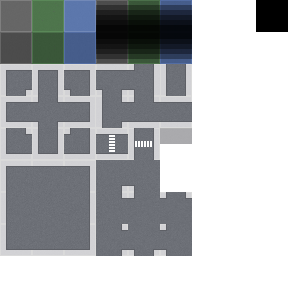
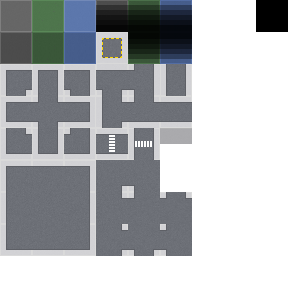
added tile based spawn set

Changed region(s): [[0.3125, 0.0938, 0.4688, 0.25]]

diff --git a/dist/js/index.js b/dist/js/index.js
@@ -1,1 +1,1 @@
-!function(e){var t={};function i(a){if(t[a])return t[a].exports;var o=t[a]={i:a,l:!1,exports:{}};return e[a].call(o.exports,o,o.exports,i),o.l=!0,o.exports}i.m=e,i.c=t,i.d=function(e,t,a){i.o(e,t)||Object.defineProperty(e,t,{configurable:!1,enumerable:!0,get:a})},i.r=function(e){Object.defineProperty(e,"__esModule",{value:!0})},i.n=function(e){var t=e&&e.__esModule?function(){return e.default}:function(){return e};return i.d(t,"a",t),t},i.o=function(e,t){return Object.prototype.hasOwnProperty.call(e,t)},i.p="",i(i.s=0)}([function(e,t,i){"use strict";let a,o,s;i.r(t);let n=0;function r(){a=document.createElement("div"),o=document.createElement("div"),s=document.createElement("div"),a.classList.add("preloader"),s.classList.add("progress"),o.classList.add("text"),a.appendChild(s),a.appendChild(o),document.body.appendChild(a)}function l(e){let t=0;n=0,a||r(),a.classList.remove("done");const i={};e.load.on("fileprogress",function(l,c){t=e.load.totalToLoad,function(e,t,i,l){let c;a||r();let p=0;i[e.key]=t;for(const e in i)i.hasOwnProperty(e)&&(c="Downloading ("+(n+1)+"/"+l+") "+e+":"+Math.round(100*i[e])+"%",p+=i[e],s.style.width=p/l*600+"px");o.innerText=c,p/l==1&&(o.innerText="Loading Game..."),1===t&&n++}(l,c,i,t)}.bind(this)),e.load.maxParallelDownloads=1,e.load.on("complete",function(){a.classList.add("done")})}let c,p={settings:{resolution:JSON.parse(localStorage.getItem("resolution"))||{height:600,width:800}},mainCamera:void 0,alignment:{centered:{},topLeft:{}},controls:{up:0,down:0,left:0,right:0},multiplayer:{},player:{}},d={song_witchesGetBitches:{name:"Strike Witches Get Bitches",author:"Azureflux",src:"assets/music/Azureflux_-_02_-_Strike_Witches_Get_Bitches.ogg"},song_bitBossa:{name:"Bit Bossa",author:"Azureflux",src:"assets/music/Azureflux_-_07_-_Bit_Bossa.ogg"},song_electrodoodle:{name:"Electricdoodle",author:"Kevin MacLeod",src:"assets/music/Electrodoodle.ogg"},song_chiphInstrumental:{name:"Chipho Instrumental",author:"RoccoW",src:"assets/music/RoccoW_-_Chipho_instrumental.ogg"},song_nontindeVendorTheme:{name:"Nontinde Vendor Theme",author:"RoccoW",src:"assets/music/RoccoW_-_Nontinde_Vendor_Theme.ogg"},song_XinyueTheme:{name:"Xinyue Theme 1",author:"The J Arhur Keenes Band",src:"assets/music/The_J_Arthur_Keenes_Band_-_01_-_Xinyue_Theme_1.ogg"}};const m={KeyW:"up",KeyA:"left",KeyS:"down",KeyD:"right"};function u(e){if(m[e])return m[e]}let h,y,g=!1;function f(e,t,i){let a=!1;i&&e.setPosition(i.x,i.y),t&&e&&p.player&&(t.up?(e.setVelocityY(-100),a=!0):t.down?(e.setVelocityY(100),a=!0):e.setVelocityY(0),t.left?(e.setVelocityX(-100),a=!0):t.right?(e.setVelocityX(100),a=!0):e.setVelocityX(0),a?(e.anims.play("hop",!0),e.walking=!0):!0===e.walking&&(e.anims.play("idle",!0),e.walking=!1,i&&e.setPosition(i.x,i.y)),e.position&&(e.depth=e.position.y),p.player.controls=t,p.player.position=e.position)}function w(e,t,i){const a=new _(e,t,i);let o=p.controls;return f(a.sprite,o,a.sprite.position),a.sprite.anims.play("spawn",!0),a}class _{constructor(e,t={spawn:{x:100,y:100}},i="#ffffff"){this.id=p.player.id,this.color=i,this.sprite=e.physics.add.sprite(16,16,"player"),this.sprite.setSize(10,10),this.sprite.setOffset(11,14),this.sprite.setPosition(t.spawn.x,t.spawn.y),this.sprite.setCollideWorldBounds(!0),this.sprite.setBounce(0),t.layers.forEach(t=>{e.physics.add.collider(this.sprite,t.tilemapLayer)}),this.position=origin,this.controls={up:0,down:0,left:0,right:0}}}function x(e){for(const t in p.multiplayer)if(p.multiplayer.hasOwnProperty(t)){const i=p.multiplayer[t].sprite,a=p.multiplayer[t].controls,o=e||{x:i.x,y:i.y};o&&i.setPosition(o.x,o.y),i.setVelocity(0,0);let s=!1;a&&i&&(a.up?(i.setVelocityY(-100),s=!0):a.down?(i.setVelocityY(100),s=!0):i.setVelocityY(0),a.left?(i.setVelocityX(-100),s=!0):a.right?(i.setVelocityX(100),s=!0):i.setVelocityX(0),s?(i.anims.play("hop",!0),i.walking=!0):!0===i.walking&&(i.anims.play("idle",!0),i.walking=!1),i.position&&(i.depth=i.position.y))}}function C(){if(h){const e=JSON.parse(JSON.stringify(p.player));delete e.sprite,h.emit("update",e)}}const T={};function v(e,t,i){if("load_map"===i)e.load.tilemapTiledJSON(t.name,t.src);else for(const a in t)t.hasOwnProperty(a)&&("load_image"===i?e.load.image(a,t[a]):"load_audio"===i&&e.load.audio(a,t[a]))}let P,S,k,V=!1;const W={map:{name:"Map_PixilTown",src:"assets/tilemap/PixilTown.json",layers:[{name:"Ground",key:"Tiles_PixilTown"},{name:"Bridge",key:"Tiles_PixilTown"}]},images:{Tiles_PixilTown:"assets/tiles/PixilTown.png"},audio:{song_XinyueTheme:d.song_XinyueTheme.src}};let B,X;let b=JSON.parse(localStorage.getItem("resolution"))||{height:600,width:800};localStorage.setItem("resolution",JSON.stringify(b));const O={type:Phaser.CANVAS,width:window.innerWidth,height:window.innerHeight,physics:{default:"arcade",arcade:{gravity:{y:0},debug:!1}},scene:[class extends Phaser.Scene{constructor(){super({key:"MainMenu"})}preload(){var e;l(this),(e=this).load.image("player","assets/sprites/player.png"),e.load.spritesheet("player_idle","assets/sprites/player_idle.png",{frameWidth:32,frameHeight:32}),e.load.spritesheet("player_hop","assets/sprites/player_hop.png",{frameWidth:32,frameHeight:32}),e.load.spritesheet("player_spawn","assets/sprites/player_spawn.png",{frameWidth:32,frameHeight:32}),e.load.on("complete",()=>{e.anims.create({key:"idle",frames:e.anims.generateFrameNumbers("player_idle",{start:0,end:2}),frameRate:2,repeat:-1}),e.anims.create({key:"hop",frames:e.anims.generateFrameNumbers("player_hop",{start:0,end:6}),frameRate:12,repeat:-1}),e.anims.create({key:"spawn",frames:e.anims.generateFrameNumbers("player_spawn",{start:0,end:14}),frameRate:12,repeat:0,onComplete:function(e){console.log("player spawned")}}),e.anims.create({key:"delete",frames:e.anims.generateFrameNumbers("player_spawn",{frames:[14,13,12,11,10,9,8,7,6,5,4,3,2,1,0]}),frameRate:12,repeat:0,onComplete:function(e){e.destroy()}});let t=p.controls;g||(document.addEventListener("keydown",e=>{const i=u(e.code);t[i]||void 0===i||(t[i]=1,C())}),document.addEventListener("keyup",e=>{const i=u(e.code);t[i]&&(t[i]=0,C())}),g=!0)})}create(){p.activeScene=this,this.sound.pauseOnBlur=!1,this.input.once("pointerdown",function(e){this.scene.start("PixilTown")},this),new Promise(function(e,t){(h=io("https://brandonvdongen.nl:8000")).on("connect",()=>{console.log("connecting..."),p.online?(console.log("Connection lost"),h.close()):h.emit("identify",{version:p.version,game_name:p.game_name})}),h.on("server_missmatch",()=>{console.error("your version doesn't match with the server!"),h.close(),t()}),h.on("identified",t=>{console.log("identified, login succesfull",t),t.online=!0,e(t)}),h.on("change_map",e=>{p.activeScene.scene.start(e.map)}),h.on("joined",e=>{console.log("joined",e),p.multiplayer[e.id]=w(p.activeScene,p.sceneSpawn,"#ffffff"),p.multiplayer[e.id].sprite.anims.play("spawn",!0)}),h.on("left",e=>{p.multiplayer[e.id]&&(p.multiplayer[e.id].sprite.anims.play("delete",!0),delete p.multiplayer[e.id]),console.log("left",e)}),h.on("update",e=>{p.multiplayer[e.id]||(p.multiplayer[e.id]=w(p.activeScene,e.position,"#ffffff")),e.sprite=p.multiplayer[e.id].sprite,p.multiplayer[e.id]=e,f(e.sprite,e.controls,e.position)})}).then(e=>{p.player.id=e.id,this.scene.start(e.map)})}update(){}},class extends Phaser.Scene{constructor(){super({key:"PixilTown"})}preload(){var e,t;l(this),e=this,t=W,console.log("loading map"),t.map&&v(e,t.map,"load_map"),t.images&&v(e,t.images,"load_image"),t.audio&&v(e,t.audio,"load_audio")}create(){var e,t;p.activeScene=this,e=this,t=W,console.log("setting up camera"),p.mainCamera=e.cameras.main,p.mainCamera.setViewport(0,0,window.innerWidth,window.innerHeight),p.mainCamera.setZoom(3),console.log("creating map"),y=e.make.tilemap({key:t.map.name}),t.map.layers.forEach((e,t)=>{const i=y.addTilesetImage(e.key);T[e.name]=y.createStaticLayer(e.name,i,0,0),T[e.name].setCollisionByProperty({collides:!0}),T[e.name].depth=0===t?0:1e3}),y.spawn=y.tileToWorldXY(2,5,{},p.mainCamera,T.Ground),(k=y).spawn.x-=k.tileWidth/2,k.spawn.y-=k.tileHeight/2,p.sceneSpawn=k,p.player=w(this,k,"#ffffff"),p.cameraTarget=p.player.sprite,k.setLayer("Ground"),console.log(k.layer)}update(e,t){var i,a;!function(e,t){V||((P=e.add.graphics()).lineStyle(3,16777215,1),P.strokeRect(0,0,t.tileWidth,t.tileHeight),V=!0);const i=e.input.activePointer.positionToCamera(e.cameras.main),a=t.worldToTileX(i.x),o=t.worldToTileY(i.y);if(P.x=t.tileToWorldX(a),P.y=t.tileToWorldY(o),e.input.manager.activePointer.isDown){const e=t.getTileAt(a,o);e&&console.log("Properties: ",e.properties)}}(this,k),i=p.cameraTarget,a=.9,i&&(void 0===a&&(a=0),p.mainCamera.scrollX=a*p.mainCamera.scrollX+(1-a)*(i.x-.5*p.mainCamera.width),p.mainCamera.scrollY=a*p.mainCamera.scrollY+(1-a)*(i.y-.5*p.mainCamera.height)),S=p.player.sprite;let o=p.controls;S.position={x:S.x,y:S.y},f(S,o,S.position),x()}},class extends Phaser.Scene{constructor(){super({key:"Voxalia"})}preload(){console.log("loading map"),l(this),this.load.audio("song_bitBossa",d.song_bitBossa.src),this.load.image("Voxalia","assets/tiles/Voxalia.png"),this.load.tilemapTiledJSON("Map_Voxalia","assets/tilemap/Voxalia.json")}create(){p.activeScene=this;const e=(X=this.make.tilemap({key:"Map_Voxalia"})).addTilesetImage("Voxalia"),t=X.createStaticLayer("Ground",e,0,0),i=X.createStaticLayer("Bridge",e,0,0);var a,o;t.setCollisionBetween(9,11),t.setCollision(-1),t.setCollisionFromCollisionGroup(),i.setCollisionFromCollisionGroup(),p.mainCamera=this.cameras.main,p.mainCamera.setViewport(0,0,window.innerWidth,window.innerHeight),p.mainCamera.setZoom(3),this.sound.pauseOnBlur=!1,a=this,o="song_bitBossa",c&&c.destroy(),(c=a.sound.add(o)).pauseOnBlur=!1,c.volume=.05,c.loop=!0,c.play(),X.spawn=X.tileToWorldXY(2,5,{},p.mainCamera,t),X.spawn.x-=X.tileWidth/2,X.spawn.y-=X.tileHeight/2,p.sceneSpawn=X,p.player=w(this,X,"#ffffff"),console.log(t),p.cameraTarget=p.player.sprite,X.setLayer(0),function(e,t){i&&(i.clear(),i.destroy());const i=e.add.graphics(),a=new Phaser.Display.Color(105,210,231,200),o=new Phaser.Display.Color(243,134,48,200),s=new Phaser.Display.Color(40,39,37,255);i.clear(),t.renderDebug(i,{tileColor:a,collidingTileColor:o,faceColor:s})}(this,X)}update(e,t){var i,a;i=p.cameraTarget,a=.9,i&&(void 0===a&&(a=0),p.mainCamera.scrollX=a*p.mainCamera.scrollX+(1-a)*(i.x-.5*p.mainCamera.width),p.mainCamera.scrollY=a*p.mainCamera.scrollY+(1-a)*(i.y-.5*p.mainCamera.height)),B=p.player.sprite;let o=p.controls;B.position={x:B.x,y:B.y},f(B,o,B.position),x()}}],pixelArt:!0},L=new Phaser.Game(O);window.onresize=function(){L.resize(window.innerWidth,window.innerHeight,1),p.mainCamera&&p.mainCamera.setViewport(0,0,window.innerWidth,window.innerHeight)},p.version=2,p.game_name="pixel_park"}]);
+!function(e){var t={};function i(a){if(t[a])return t[a].exports;var o=t[a]={i:a,l:!1,exports:{}};return e[a].call(o.exports,o,o.exports,i),o.l=!0,o.exports}i.m=e,i.c=t,i.d=function(e,t,a){i.o(e,t)||Object.defineProperty(e,t,{configurable:!1,enumerable:!0,get:a})},i.r=function(e){Object.defineProperty(e,"__esModule",{value:!0})},i.n=function(e){var t=e&&e.__esModule?function(){return e.default}:function(){return e};return i.d(t,"a",t),t},i.o=function(e,t){return Object.prototype.hasOwnProperty.call(e,t)},i.p="",i(i.s=0)}([function(e,t,i){"use strict";let a,o,s;i.r(t);let n=0;function r(){a=document.createElement("div"),o=document.createElement("div"),s=document.createElement("div"),a.classList.add("preloader"),s.classList.add("progress"),o.classList.add("text"),a.appendChild(s),a.appendChild(o),document.body.appendChild(a)}function l(e){let t=0;n=0,a||r(),a.classList.remove("done");const i={};e.load.on("fileprogress",function(l,c){t=e.load.totalToLoad,function(e,t,i,l){let c;a||r();let p=0;i[e.key]=t;for(const e in i)i.hasOwnProperty(e)&&(c="Downloading ("+(n+1)+"/"+l+") "+e+":"+Math.round(100*i[e])+"%",p+=i[e],s.style.width=p/l*600+"px");o.innerText=c,p/l==1&&(o.innerText="Loading Game..."),1===t&&n++}(l,c,i,t)}.bind(this)),e.load.maxParallelDownloads=1,e.load.on("complete",function(){a.classList.add("done")})}let c,p={settings:{resolution:JSON.parse(localStorage.getItem("resolution"))||{height:600,width:800}},mainCamera:void 0,alignment:{centered:{},topLeft:{}},controls:{up:0,down:0,left:0,right:0},multiplayer:{},player:{}},d={song_witchesGetBitches:{name:"Strike Witches Get Bitches",author:"Azureflux",src:"assets/music/Azureflux_-_02_-_Strike_Witches_Get_Bitches.ogg"},song_bitBossa:{name:"Bit Bossa",author:"Azureflux",src:"assets/music/Azureflux_-_07_-_Bit_Bossa.ogg"},song_electrodoodle:{name:"Electricdoodle",author:"Kevin MacLeod",src:"assets/music/Electrodoodle.ogg"},song_chiphInstrumental:{name:"Chipho Instrumental",author:"RoccoW",src:"assets/music/RoccoW_-_Chipho_instrumental.ogg"},song_nontindeVendorTheme:{name:"Nontinde Vendor Theme",author:"RoccoW",src:"assets/music/RoccoW_-_Nontinde_Vendor_Theme.ogg"},song_XinyueTheme:{name:"Xinyue Theme 1",author:"The J Arhur Keenes Band",src:"assets/music/The_J_Arthur_Keenes_Band_-_01_-_Xinyue_Theme_1.ogg"}};const m={KeyW:"up",KeyA:"left",KeyS:"down",KeyD:"right"};function u(e){if(m[e])return m[e]}let h,y,g=!1;function f(e,t,i){let a=!1;i&&e.setPosition(i.x,i.y),t&&e&&p.player&&(t.up?(e.setVelocityY(-100),a=!0):t.down?(e.setVelocityY(100),a=!0):e.setVelocityY(0),t.left?(e.setVelocityX(-100),a=!0):t.right?(e.setVelocityX(100),a=!0):e.setVelocityX(0),a?(e.anims.play("hop",!0),e.walking=!0):!0===e.walking&&(e.anims.play("idle",!0),e.walking=!1,i&&e.setPosition(i.x,i.y)),e.position&&(e.depth=e.position.y),p.player.controls=t,p.player.position=e.position)}function w(e,t,i){const a=new _(e,t,i);let o=p.controls;return f(a.sprite,o,a.sprite.position),a.sprite.anims.play("spawn",!0),a}class _{constructor(e,t={spawn:{x:100,y:100}},i="#ffffff"){this.id=p.player.id,this.color=i,this.sprite=e.physics.add.sprite(16,16,"player"),this.sprite.setSize(10,10),this.sprite.setOffset(11,14),this.sprite.setPosition(t.spawn.x,t.spawn.y),this.sprite.setCollideWorldBounds(!0),this.sprite.setBounce(0),t.layers.forEach(t=>{e.physics.add.collider(this.sprite,t.tilemapLayer)}),this.position=origin,this.controls={up:0,down:0,left:0,right:0}}}function x(e){for(const t in p.multiplayer)if(p.multiplayer.hasOwnProperty(t)){const i=p.multiplayer[t].sprite,a=p.multiplayer[t].controls,o=e||{x:i.x,y:i.y};o&&i.setPosition(o.x,o.y),i.setVelocity(0,0);let s=!1;a&&i&&(a.up?(i.setVelocityY(-100),s=!0):a.down?(i.setVelocityY(100),s=!0):i.setVelocityY(0),a.left?(i.setVelocityX(-100),s=!0):a.right?(i.setVelocityX(100),s=!0):i.setVelocityX(0),s?(i.anims.play("hop",!0),i.walking=!0):!0===i.walking&&(i.anims.play("idle",!0),i.walking=!1),i.position&&(i.depth=i.position.y))}}function C(){if(h){const e=JSON.parse(JSON.stringify(p.player));delete e.sprite,h.emit("update",e)}}const T={};function v(e,t,i){if("load_map"===i)e.load.tilemapTiledJSON(t.name,t.src);else for(const a in t)t.hasOwnProperty(a)&&("load_image"===i?e.load.image(a,t[a]):"load_audio"===i&&e.load.audio(a,t[a]))}let P,S,k,V=!1;const W={map:{name:"Map_PixilTown",src:"assets/tilemap/PixilTown.json",layers:[{name:"Ground",key:"Tiles_PixilTown"},{name:"Bridge",key:"Tiles_PixilTown"}]},images:{Tiles_PixilTown:"assets/tiles/PixilTown.png"},audio:{song_XinyueTheme:d.song_XinyueTheme.src}};let B,X;let b=JSON.parse(localStorage.getItem("resolution"))||{height:600,width:800};localStorage.setItem("resolution",JSON.stringify(b));const O={type:Phaser.CANVAS,width:window.innerWidth,height:window.innerHeight,physics:{default:"arcade",arcade:{gravity:{y:0},debug:!1}},scene:[class extends Phaser.Scene{constructor(){super({key:"MainMenu"})}preload(){var e;l(this),(e=this).load.image("player","assets/sprites/player.png"),e.load.spritesheet("player_idle","assets/sprites/player_idle.png",{frameWidth:32,frameHeight:32}),e.load.spritesheet("player_hop","assets/sprites/player_hop.png",{frameWidth:32,frameHeight:32}),e.load.spritesheet("player_spawn","assets/sprites/player_spawn.png",{frameWidth:32,frameHeight:32}),e.load.on("complete",()=>{e.anims.create({key:"idle",frames:e.anims.generateFrameNumbers("player_idle",{start:0,end:2}),frameRate:2,repeat:-1}),e.anims.create({key:"hop",frames:e.anims.generateFrameNumbers("player_hop",{start:0,end:6}),frameRate:12,repeat:-1}),e.anims.create({key:"spawn",frames:e.anims.generateFrameNumbers("player_spawn",{start:0,end:14}),frameRate:12,repeat:0,onComplete:function(e){console.log("player spawned"),console.log(p)}}),e.anims.create({key:"delete",frames:e.anims.generateFrameNumbers("player_spawn",{frames:[14,13,12,11,10,9,8,7,6,5,4,3,2,1,0]}),frameRate:12,repeat:0,onComplete:function(e){e.destroy()}});let t=p.controls;g||(document.addEventListener("keydown",e=>{const i=u(e.code);t[i]||void 0===i||(t[i]=1,C())}),document.addEventListener("keyup",e=>{const i=u(e.code);t[i]&&(t[i]=0,C())}),g=!0)})}create(){p.activeScene=this,this.sound.pauseOnBlur=!1,this.input.once("pointerdown",function(e){this.scene.start("PixilTown")},this),new Promise(function(e,t){(h=io("https://brandonvdongen.nl:8000")).on("connect",()=>{console.log("connecting..."),p.online?(console.log("Connection lost"),h.close()):h.emit("identify",{version:p.version,game_name:p.game_name})}),h.on("server_missmatch",()=>{console.error("your version doesn't match with the server!"),h.close(),t()}),h.on("identified",t=>{console.log("identified, login succesfull",t),t.online=!0,e(t)}),h.on("change_map",e=>{p.activeScene.scene.start(e.map)}),h.on("joined",e=>{console.log("joined",e),p.multiplayer[e.id]=w(p.activeScene,p.sceneSpawn,"#ffffff"),p.multiplayer[e.id].sprite.anims.play("spawn",!0)}),h.on("left",e=>{p.multiplayer[e.id]&&(p.multiplayer[e.id].sprite.anims.play("delete",!0),delete p.multiplayer[e.id]),console.log("left",e)}),h.on("update",e=>{p.multiplayer[e.id]||(p.multiplayer[e.id]=w(p.activeScene,e.position,"#ffffff")),e.sprite=p.multiplayer[e.id].sprite,p.multiplayer[e.id]=e,f(e.sprite,e.controls,e.position)})}).then(e=>{p.player.id=e.id,this.scene.start(e.map)})}update(){}},class extends Phaser.Scene{constructor(){super({key:"PixilTown"})}preload(){var e,t;l(this),e=this,t=W,console.log("loading map"),t.map&&v(e,t.map,"load_map"),t.images&&v(e,t.images,"load_image"),t.audio&&v(e,t.audio,"load_audio")}create(){var e,t;p.activeScene=this,e=this,t=W,console.log("setting up camera"),p.mainCamera=e.cameras.main,p.mainCamera.setViewport(0,0,window.innerWidth,window.innerHeight),p.mainCamera.setZoom(3),console.log("creating map"),y=e.make.tilemap({key:t.map.name}),t.map.layers.forEach((e,t)=>{const i=y.addTilesetImage(e.key);T[e.name]=y.createStaticLayer(e.name,i,0,0),T[e.name].setCollisionByProperty({collides:!0}),T[e.name].depth=0===t?0:1e3}),y.spawn=y.tileToWorldXY(2,5,{},p.mainCamera,T.Ground),(k=y).spawn.x-=k.tileWidth/2,k.spawn.y-=k.tileHeight/2,p.sceneSpawn=k,p.player=w(this,k,"#ffffff"),p.cameraTarget=p.player.sprite,k.setLayer("Ground"),console.log(k.layer)}update(e,t){var i,a;!function(e,t){V||((P=e.add.graphics()).lineStyle(3,16777215,1),P.strokeRect(0,0,t.tileWidth,t.tileHeight),V=!0);const i=e.input.activePointer.positionToCamera(e.cameras.main),a=t.worldToTileX(i.x),o=t.worldToTileY(i.y);if(P.x=t.tileToWorldX(a),P.y=t.tileToWorldY(o),e.input.manager.activePointer.isDown){const e=t.getTileAt(a,o);e&&console.log("Properties: ",e.properties)}}(this,k),i=p.cameraTarget,a=.9,i&&(void 0===a&&(a=0),p.mainCamera.scrollX=a*p.mainCamera.scrollX+(1-a)*(i.x-.5*p.mainCamera.width),p.mainCamera.scrollY=a*p.mainCamera.scrollY+(1-a)*(i.y-.5*p.mainCamera.height)),S=p.player.sprite;let o=p.controls;S.position={x:S.x,y:S.y},f(S,o,S.position),x()}},class extends Phaser.Scene{constructor(){super({key:"Voxalia"})}preload(){console.log("loading map"),l(this),this.load.audio("song_bitBossa",d.song_bitBossa.src),this.load.image("Voxalia","assets/tiles/Voxalia.png"),this.load.tilemapTiledJSON("Map_Voxalia","assets/tilemap/Voxalia.json")}create(){p.activeScene=this;const e=(X=this.make.tilemap({key:"Map_Voxalia"})).addTilesetImage("Voxalia"),t=X.createStaticLayer("Ground",e,0,0),i=X.createStaticLayer("Bridge",e,0,0);var a,o;t.setCollisionBetween(9,11),t.setCollision(-1),t.setCollisionFromCollisionGroup(),i.setCollisionFromCollisionGroup(),p.mainCamera=this.cameras.main,p.mainCamera.setViewport(0,0,window.innerWidth,window.innerHeight),p.mainCamera.setZoom(3),this.sound.pauseOnBlur=!1,a=this,o="song_bitBossa",c&&c.destroy(),(c=a.sound.add(o)).pauseOnBlur=!1,c.volume=.05,c.loop=!0,c.play(),X.spawn=X.tileToWorldXY(2,5,{},p.mainCamera,t),X.spawn.x-=X.tileWidth/2,X.spawn.y-=X.tileHeight/2,p.sceneSpawn=X,p.player=w(this,X,"#ffffff"),console.log(t),p.cameraTarget=p.player.sprite,X.setLayer(0),function(e,t){i&&(i.clear(),i.destroy());const i=e.add.graphics(),a=new Phaser.Display.Color(105,210,231,200),o=new Phaser.Display.Color(243,134,48,200),s=new Phaser.Display.Color(40,39,37,255);i.clear(),t.renderDebug(i,{tileColor:a,collidingTileColor:o,faceColor:s})}(this,X)}update(e,t){var i,a;i=p.cameraTarget,a=.9,i&&(void 0===a&&(a=0),p.mainCamera.scrollX=a*p.mainCamera.scrollX+(1-a)*(i.x-.5*p.mainCamera.width),p.mainCamera.scrollY=a*p.mainCamera.scrollY+(1-a)*(i.y-.5*p.mainCamera.height)),B=p.player.sprite;let o=p.controls;B.position={x:B.x,y:B.y},f(B,o,B.position),x()}}],pixelArt:!0},L=new Phaser.Game(O);window.onresize=function(){L.resize(window.innerWidth,window.innerHeight,1),p.mainCamera&&p.mainCamera.setViewport(0,0,window.innerWidth,window.innerHeight)},p.version=2,p.game_name="pixel_park"}]);

diff --git a/client/js/modules/mapHandler.js b/client/js/modules/mapHandler.js
@@ -36,17 +36,20 @@ export function createMap(game, files) {
     files.map.layers.forEach((layer, index) => {
         const tileset = map.addTilesetImage(layer.key);
         layers[layer.name] = map.createStaticLayer(layer.name, tileset, 0, 0);
-        // layers[layer.name].setCollisionBetween(9, 11);
-        // layers[layer.name].setCollision(-1);
         layers[layer.name].setCollisionByProperty({collides: true});
-        if(index===0)layers[layer.name].depth = 0;
+        if (index === 0) layers[layer.name].depth = 0;
         else layers[layer.name].depth = 1000;
-        // layers[layer.name].getTilesWithin(0, 0, layers[layer.name].width, layers[layer.name].height, null, layers[layer.name]).forEach((value, index2) => {
-        //    console.log(value,value.y);
-        // });
-    });
 
-    map.spawn = map.tileToWorldXY(2, 5, {}, storage.mainCamera, layers["Ground"]);
+    });
+    const layer = layers["Ground"];
+    map.getTilesWithin(0, 0, layer.width, layer.height, {}, layer).forEach((value, index) => {
+        if (value.properties) {
+            if (value.properties.spawn) {
+                console.log(value.x);
+                map.spawn = map.tileToWorldXY(value.x+1, value.y+1, {}, storage.mainCamera, layer);
+            }
+        }
+    });
     return map;
 }
 

diff --git a/client/js/modules/playerController.js b/client/js/modules/playerController.js
@@ -31,6 +31,7 @@ export function preload(game) {
             repeat: 0,
             onComplete: function (player) {
                 console.log("player spawned");
+                console.log(storage);
             }
         });
         game.anims.create({
